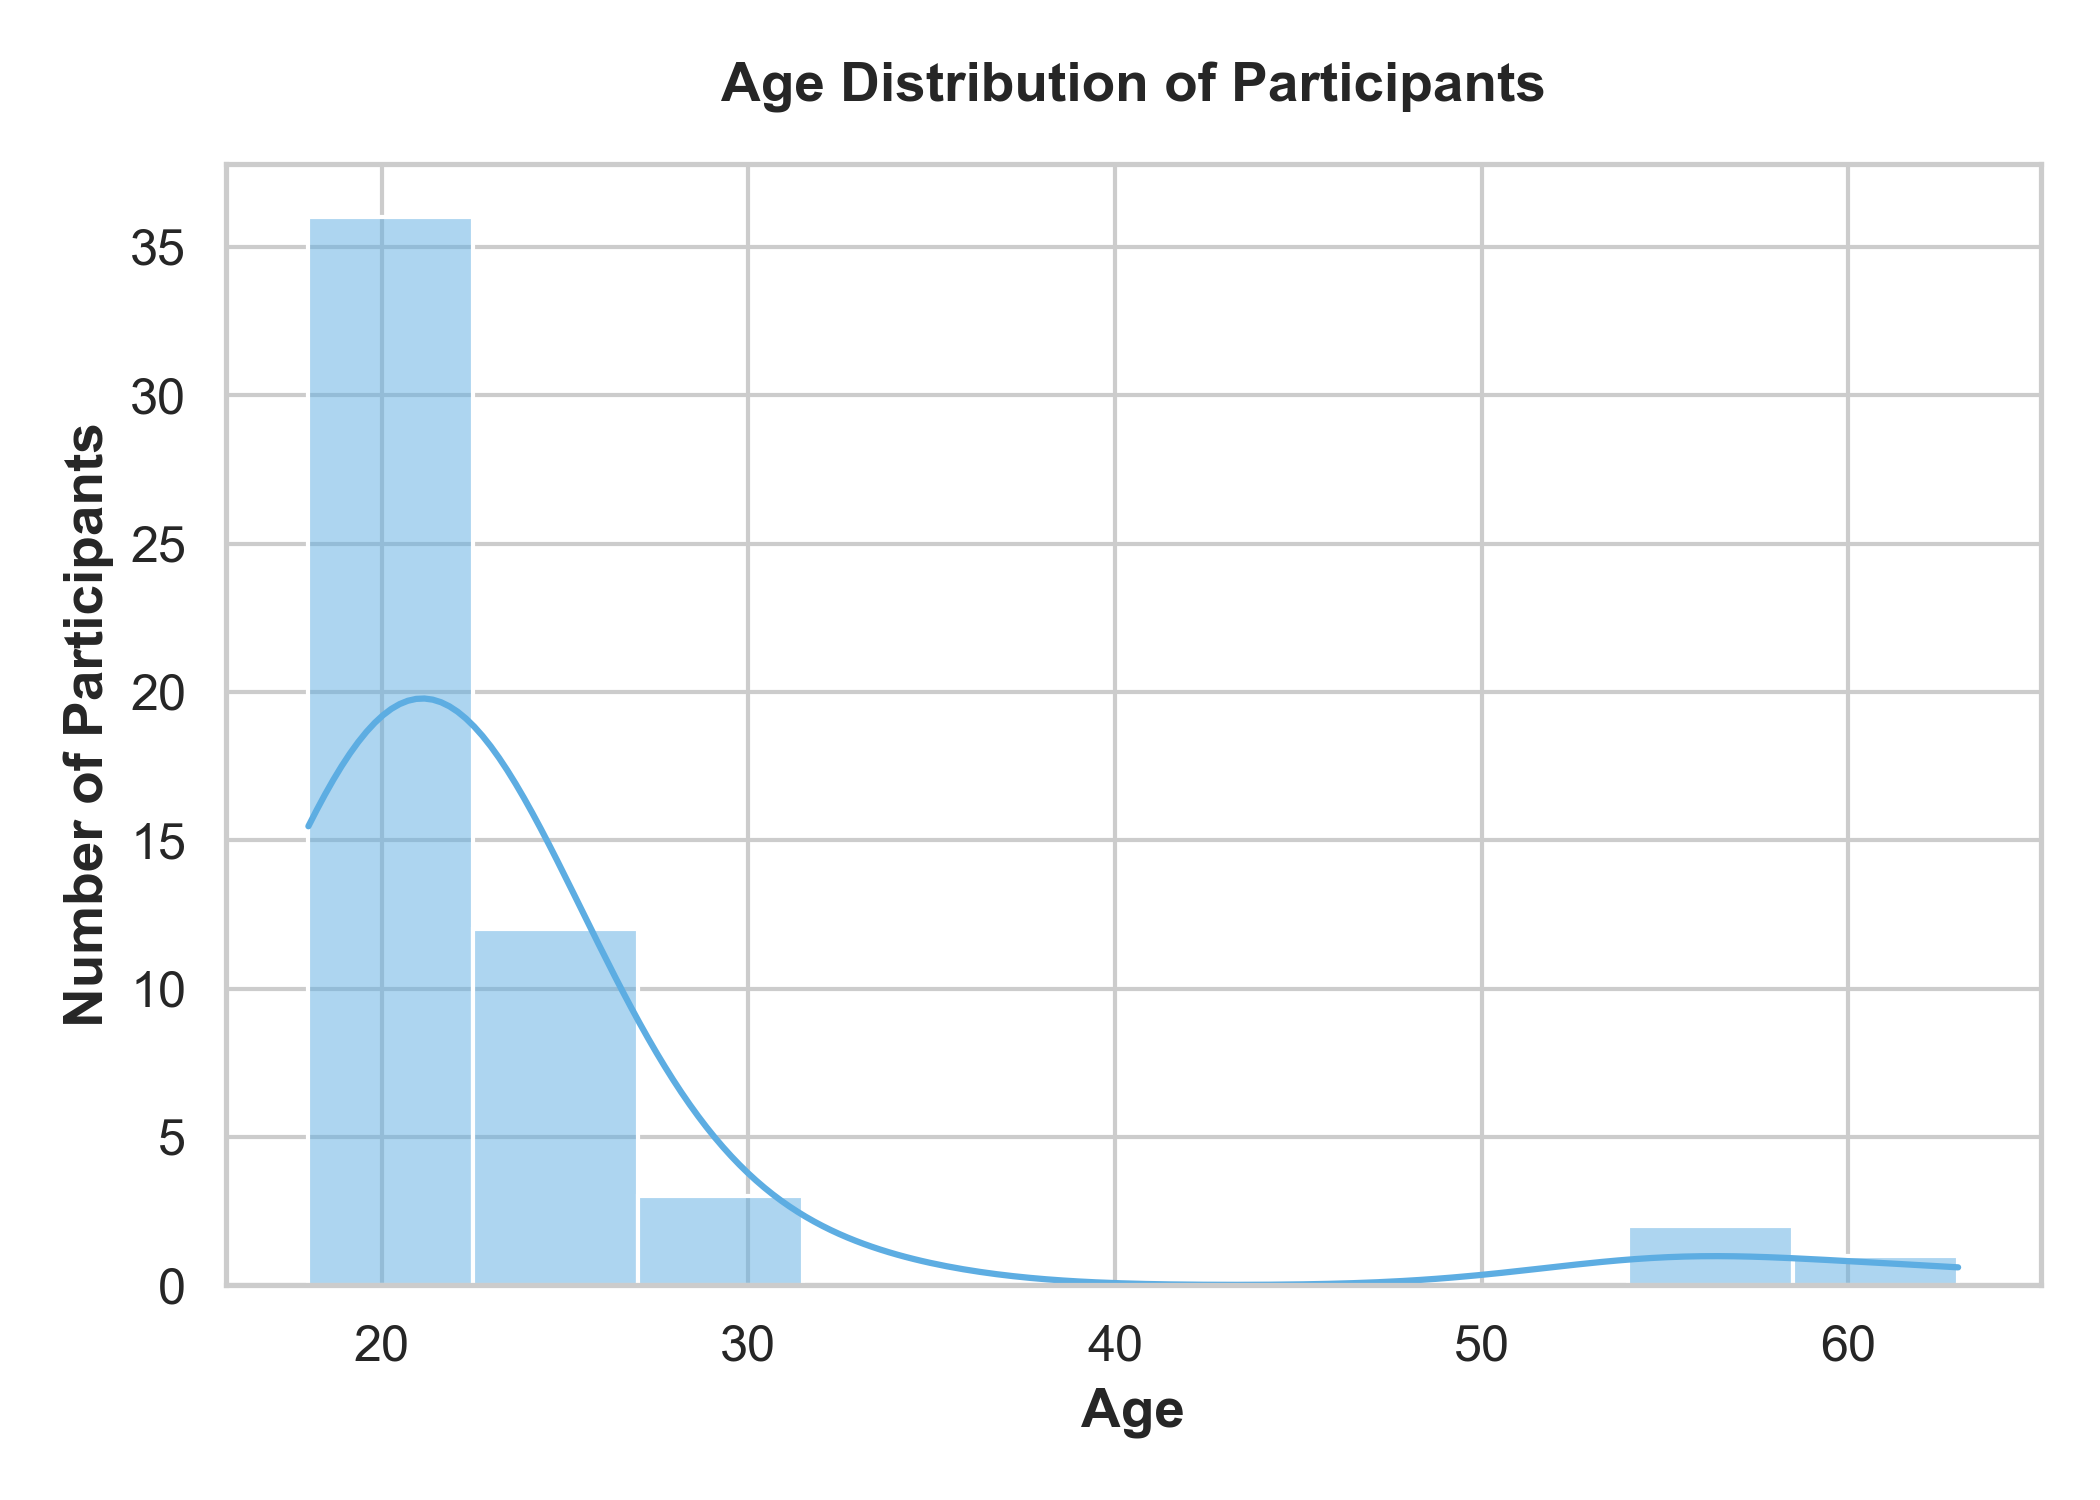
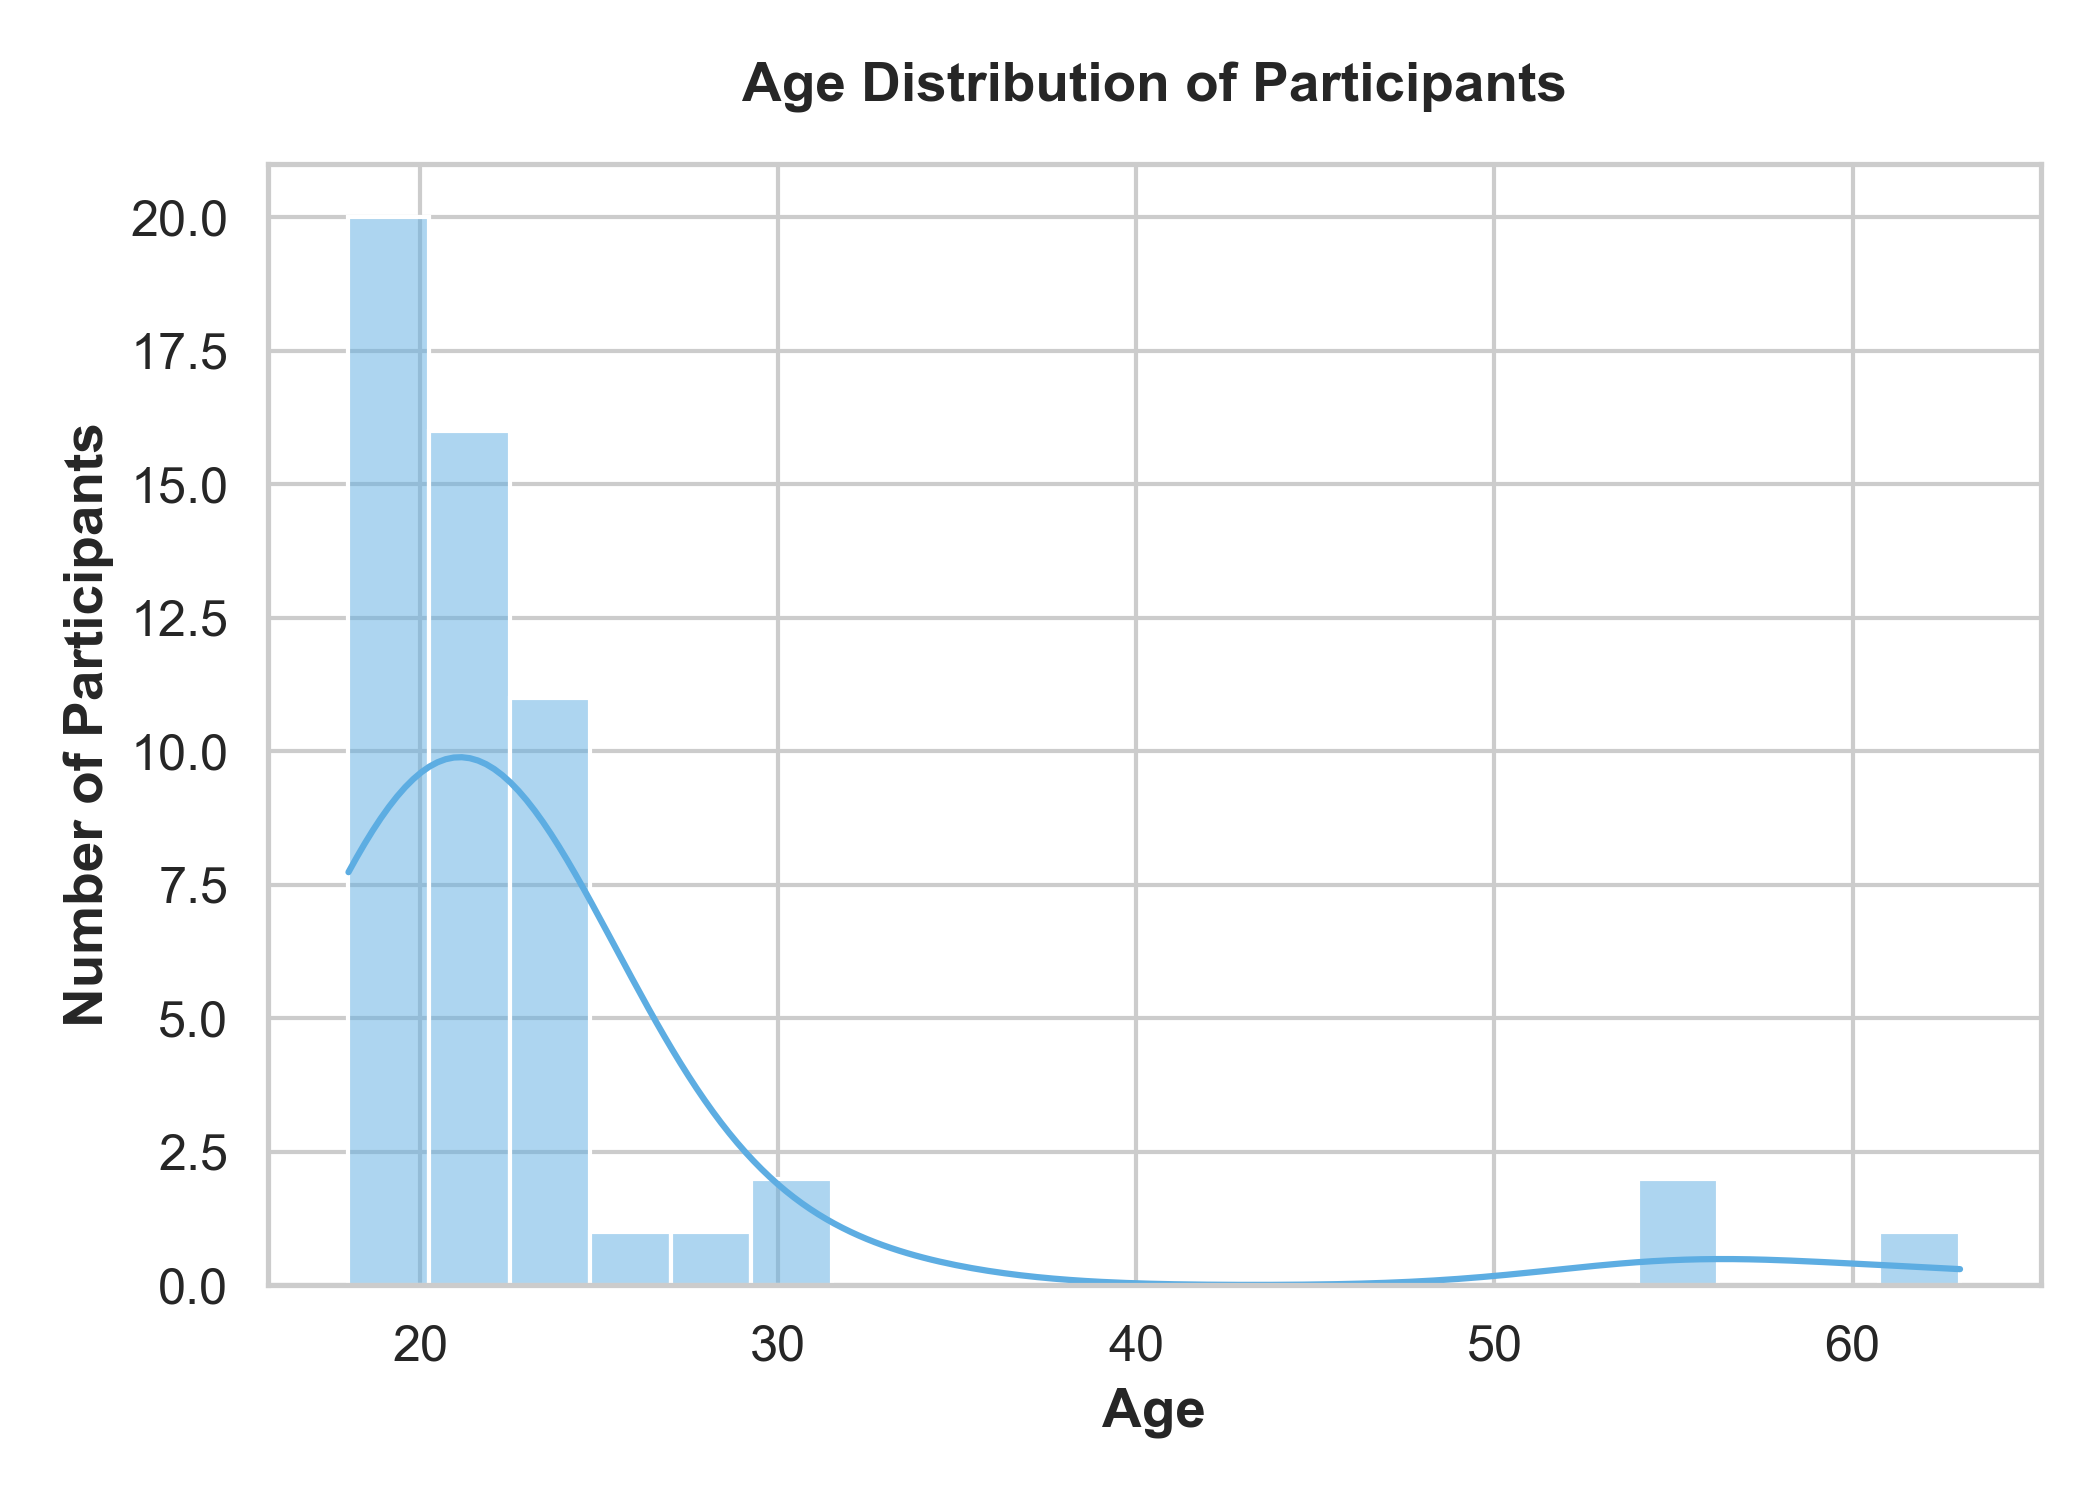
Added occupation plot

diff --git a/analyze.py b/analyze.py
@@ -120,12 +120,12 @@ df = df[df["participantID"] != "P046"].reset_index(drop=True)
 n_excluded = n_before - df.shape[0]
 print(f"  Excluded P046: {n_excluded} row(s) removed. Remaining: {df.shape[0]}")
 
-# --- Step 8.5: Extract Demographics (NEW) ---
-# We extract this before the column pruning step removes the metadata
-df_demographics = df[['participantID', 'gender', 'age']].copy()
+# --- Step 8.5: Extract Demographics (Updated) ---
+# Added 'occupation_1' to the extraction list
+df_demographics = df[['participantID', 'gender', 'age', 'occupation_1']].copy()
 df_demographics['age'] = pd.to_numeric(df_demographics['age'], errors='coerce')
 
-# Map numeric Qualtrics codes to labels (Adjust 1 vs 2 if your survey order differs!)
+# Map numeric Qualtrics codes to labels
 gender_map = {1: "Female", 2: "Male", 3: "Non-binary", 4: "Other"}
 df_demographics['gender_label'] = pd.to_numeric(df_demographics['gender'], errors='coerce').map(gender_map).fillna("Unknown")
 
@@ -525,10 +525,11 @@ try:
         plt.close()
         print(f"  Saved Plot: {plot2_path}")
 
-    # --- Plot 3: Age Distribution (NEW) ---
+# --- Plot 3: Age Distribution (Updated) ---
     if not df_demographics['age'].isna().all():
         plt.figure(figsize=(7, 5))
-        sns.histplot(data=df_demographics.dropna(subset=['age']), x="age", bins=10, kde=True, color="#5DADE2")
+        # Increased bins from 10 to 20 for more detail
+        sns.histplot(data=df_demographics.dropna(subset=['age']), x="age", bins=20, kde=True, color="#5DADE2")
         plt.title("Age Distribution of Participants", pad=15, fontweight='bold')
         plt.xlabel("Age", fontweight='bold')
         plt.ylabel("Number of Participants", fontweight='bold')
@@ -539,23 +540,52 @@ try:
         plt.close()
         print(f"  Saved Plot: {plot3_path}")
 
-    # --- Plot 4: Gender Distribution (NEW) ---
+# --- Plot 4: Gender Distribution (Updated to Pie Chart) ---
     if not df_demographics['gender_label'].isna().all():
-        plt.figure(figsize=(7, 5))
-        # Value counts to get the correct bar order
-        gender_counts = df_demographics['gender_label'].value_counts().reset_index()
-        gender_counts.columns = ['Gender', 'Count']
+        plt.figure(figsize=(7, 7))
+        gender_counts = df_demographics['gender_label'].value_counts()
         
-        sns.barplot(data=gender_counts, x='Gender', y='Count', palette="Set2")
+        # Using matplotlib to create a clean pie chart
+        plt.pie(
+            gender_counts, 
+            labels=gender_counts.index, 
+            autopct='%1.1f%%', 
+            startangle=140, 
+            colors=sns.color_palette("Set2"),
+            textprops={'fontweight': 'bold'}
+        )
         plt.title("Gender Distribution of Participants", pad=15, fontweight='bold')
-        plt.xlabel("Reported Gender", fontweight='bold')
-        plt.ylabel("Number of Participants", fontweight='bold')
         
         plot4_path = os.path.join(OUTPUT_DIR, "plot_demographics_gender.png")
         plt.tight_layout()
         plt.savefig(plot4_path, dpi=300)
         plt.close()
         print(f"  Saved Plot: {plot4_path}")
+
+    # --- Plot 5: Occupation Distribution (Pie Chart: Top Class vs Other) ---
+    if 'occupation_1' in df_demographics.columns:
+        plt.figure(figsize=(7, 7))
+        # Get counts and find the most predominant class
+        occ_counts = df_demographics['occupation_1'].value_counts()
+        
+        if not occ_counts.empty:
+            top_label = occ_counts.index[0]
+            
+            # Group everything that isn't the top class into "Other"
+            df_demographics['occ_grouped'] = df_demographics['occupation_1'].apply(
+                lambda x: x if x == top_label else "Other"
+            )
+            grouped_counts = df_demographics['occ_grouped'].value_counts()
+            
+            plt.pie(grouped_counts, labels=grouped_counts.index, autopct='%1.1f%%', 
+                    startangle=140, colors=sns.color_palette("Pastel1"), textprops={'fontweight': 'bold'})
+            plt.title(f"Participant Occupations ({top_label} vs. Other)", pad=15, fontweight='bold')
+            
+            plot5_path = os.path.join(OUTPUT_DIR, "plot_demographics_occupation.png")
+            plt.tight_layout()
+            plt.savefig(plot5_path, dpi=300)
+            plt.close()
+            print(f"  Saved Plot: {plot5_path}")
 
 except ImportError:
     print("  [WARNING] seaborn or matplotlib not installed. Presentation plots were skipped.")
